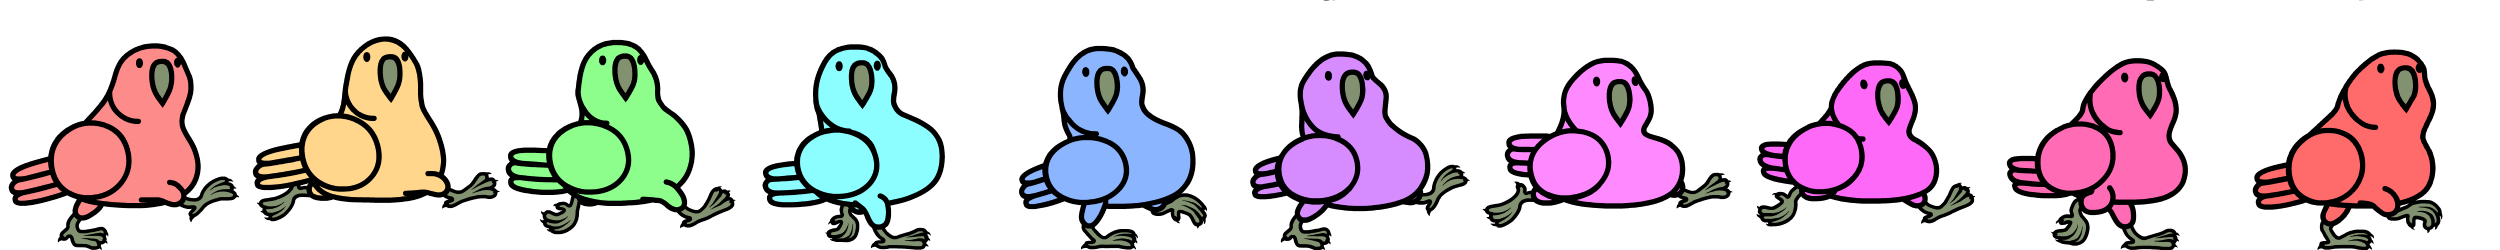
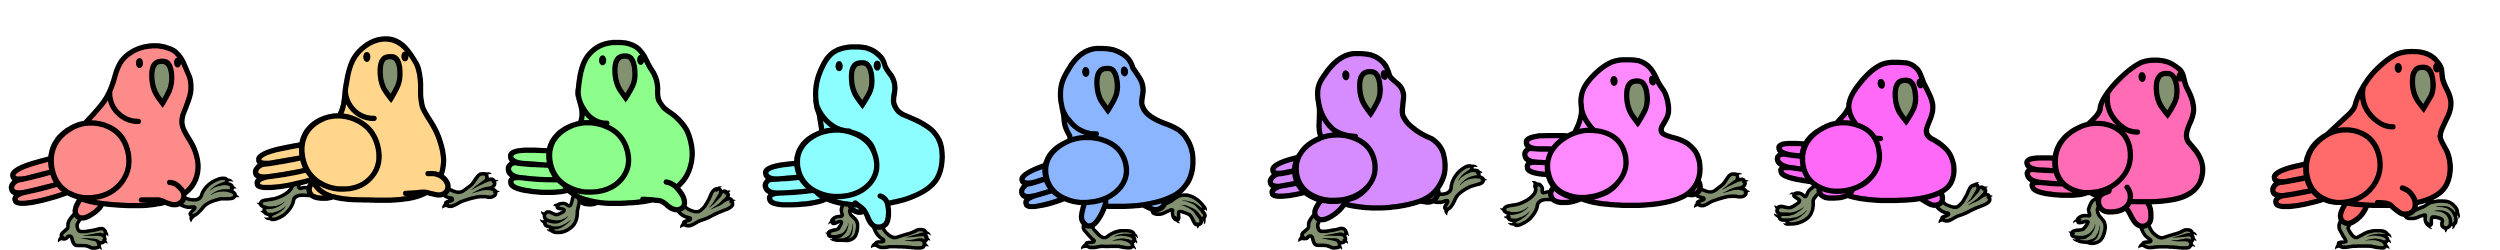
Fix parrot sprite positioning

Changed region(s): [[0.4992, 0.196, 0.9984, 1.0]]

diff --git a/Sprite.js b/Sprite.js
@@ -20,7 +20,7 @@ class Sprite {
       this.frames.current++;
     }
 
-    if (this.frames.current > this.frames.max) {
+    if (this.frames.current >= this.frames.max) {
       this.frames.current = 0;
     }
   }
